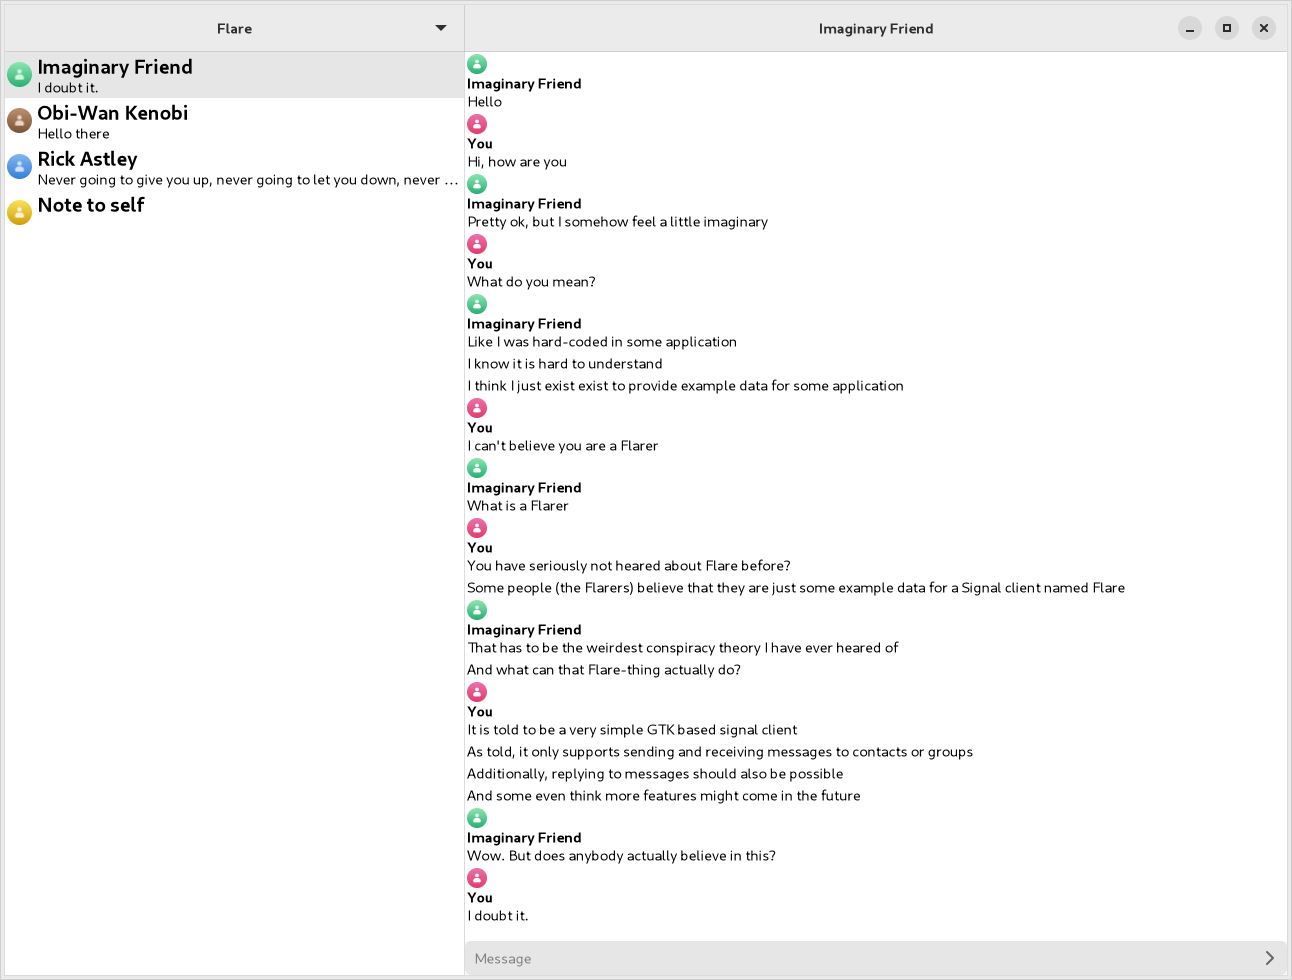
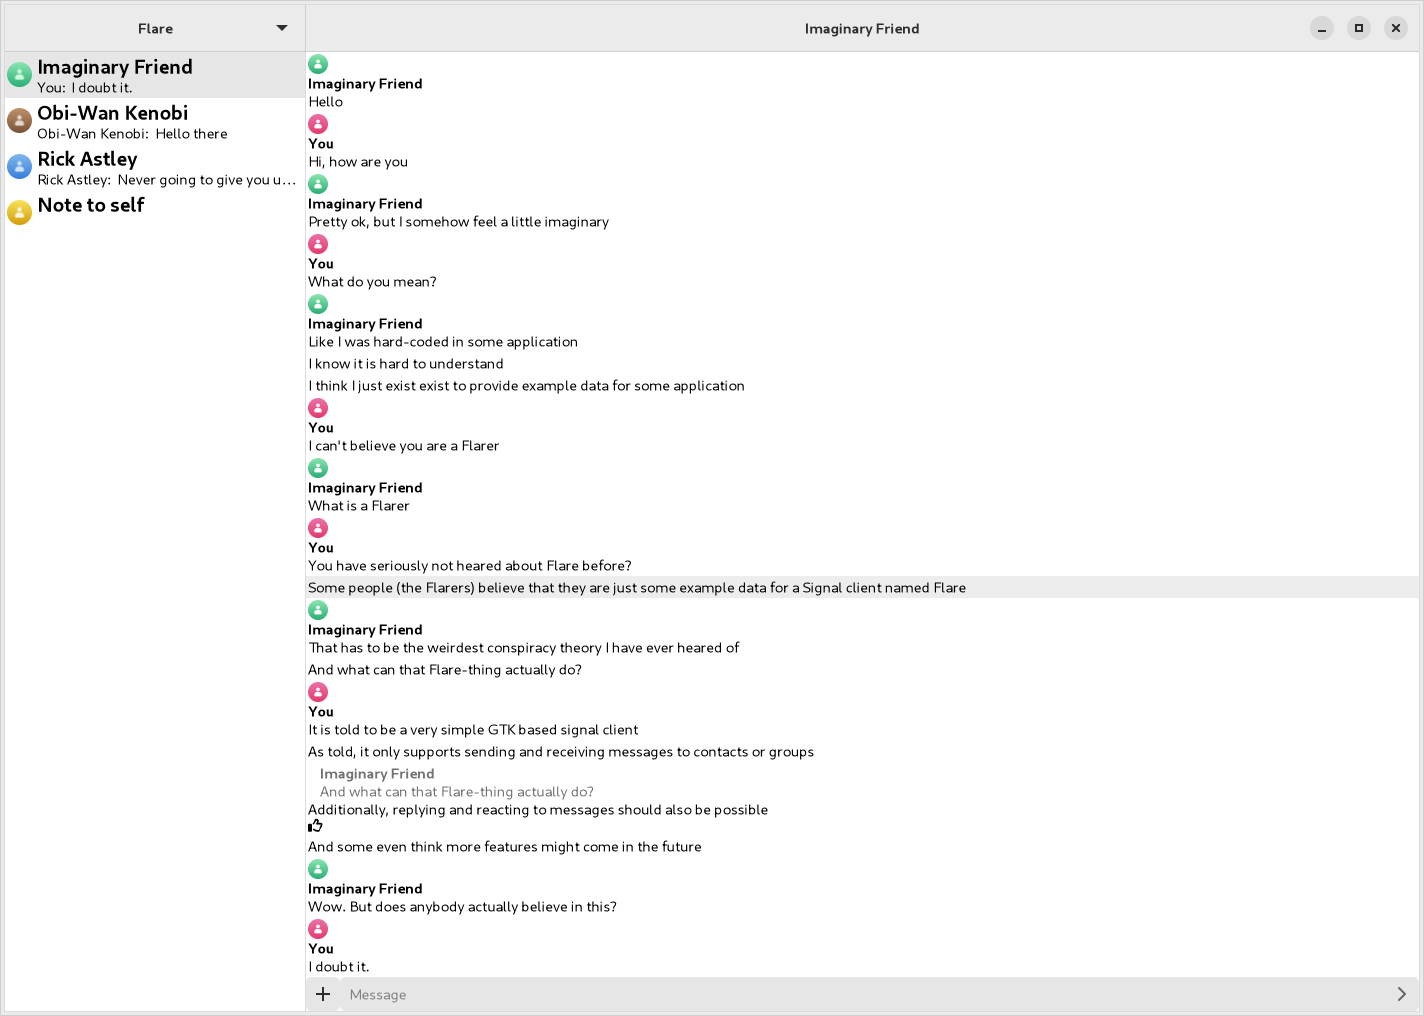
fix(screenshot): Fix screenshot build, update screenshot

Changed region(s): [[0.0, 0.0306, 0.8669, 1.0], [0.5882, 0.0, 0.7121, 0.0612], [0.0929, 0.0, 0.1238, 0.0306]]

diff --git a/src/backend/dummy.rs b/src/backend/dummy.rs
@@ -92,15 +92,17 @@ impl super::Manager {
     pub async fn init<P: AsRef<Path>>(
         &self,
         _p: &P,
-    ) -> Result<(), super::manager::ManagerCreationError> {
+    ) -> Result<(), crate::ApplicationError> {
         log::trace!("Init manager for screenshots");
+        self.init_channels().await;
+        self.setup_receive_message_loop().await?;
         Ok(())
     }
 
     #[cfg(feature = "screenshot")]
     pub async fn setup_receive_message_loop(&self) -> Result<(), presage::Error> {
         log::trace!("Setup receive loop for screenshots");
-        let channels = self.imp().channels.borrow_mut();
+        let channels = self.imp().channels.borrow();
 
         for msg in self.dummy_messages().await {
             self.emit_by_name::<()>("message", &[&msg]);
@@ -110,7 +112,7 @@ impl super::Manager {
                     .internal_hash(),
             ) {
                 log::debug!("Message from a already existing channel");
-                stored_channel.new_message(msg);
+                let _ = stored_channel.new_message(msg);
                 tokio::time::sleep(std::time::Duration::from_millis(10)).await;
             }
         }
@@ -118,7 +120,16 @@ impl super::Manager {
     }
 
     #[cfg(feature = "screenshot")]
+    pub(super) fn uuid(&self) -> Uuid {
+        Uuid::nil()
+    }
+
+    #[cfg(feature = "screenshot")]
     async fn dummy_messages(&self) -> Vec<Message> {
+        let msg_replied = msg!(self, "And what can that Flare-thing actually do?", 1);
+        let msg_reply = msg!(self, "Additionally, replying and reacting to messages should also be possible", 0);
+        msg_reply.set_quote(msg_replied.clone());
+        msg_reply.react("👍");
         vec![
             msg!(self, "Hello", 1),
             msg!(self, "Hi, how are you", 0),
@@ -132,10 +143,10 @@ impl super::Manager {
             msg!(self, "You have seriously not heared about Flare before?", 0),
             msg!(self, "Some people (the Flarers) believe that they are just some example data for a Signal client named Flare", 0),
             msg!(self, "That has to be the weirdest conspiracy theory I have ever heared of", 1),
-            msg!(self, "And what can that Flare-thing actually do?", 1),
+            msg_replied,
             msg!(self, "It is told to be a very simple GTK based signal client", 0),
             msg!(self, "As told, it only supports sending and receiving messages to contacts or groups", 0),
-            msg!(self, "Additionally, replying to messages should also be possible", 0),
+            msg_reply,
             msg!(self, "And some even think more features might come in the future", 0),
             msg!(self, "Wow. But does anybody actually believe in this?", 1),
             msg!(self, "Never going to give you up, never going to let you down, never going to ", 2, 2),
@@ -163,10 +174,10 @@ impl super::Manager {
 
     #[cfg(feature = "screenshot")]
     pub async fn init_channels(&self) {
-        let mut channels = self.imp().channels.borrow_mut();
 
         for channel in self.dummy_channels().await {
             self.emit_by_name::<()>("channel", &[&channel]);
+            let mut channels = self.imp().channels.borrow_mut();
             channels.insert(channel.internal_hash(), channel);
         }
     }

diff --git a/src/gui/message_item.rs b/src/gui/message_item.rs
@@ -141,6 +141,7 @@ pub mod imp {
                         .expect("Root of `ChannelMessages` to be a `Window`.");
                     let dialog = ErrorDialog::new(e, &root);
                     dialog.show();
+                    obj.notify("has-reaction");
                 }
             }));
         }
@@ -235,6 +236,7 @@ pub mod imp {
                             self.box_attachments.append(&att_widget);
                         }
                     }
+                    obj.notify("has-reaction");
                     self.message.replace(msg);
                 }
                 "show-name" => {

diff --git a/src/backend/manager.rs b/src/backend/manager.rs
@@ -244,6 +244,7 @@ impl Manager {
         self.imp().channels.borrow().values().cloned().collect()
     }
 
+    #[cfg(not(feature = "screenshot"))]
     pub fn list_contacts(&self) -> Vec<Contact> {
         self.internal()
             .get_contacts()
@@ -347,6 +348,7 @@ impl Manager {
         r
     }
 
+    #[cfg(not(feature = "screenshot"))]
     pub(super) fn uuid(&self) -> Uuid {
         self.internal().uuid()
     }
